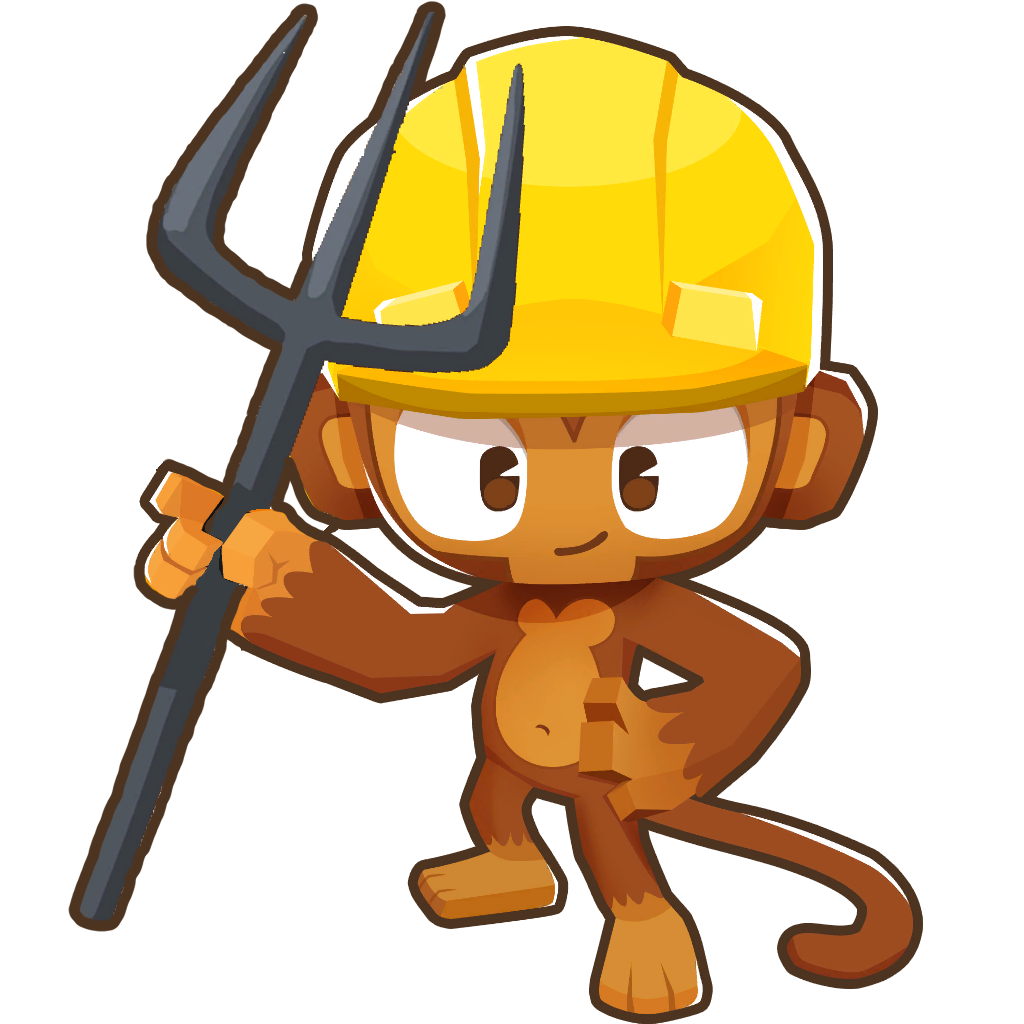
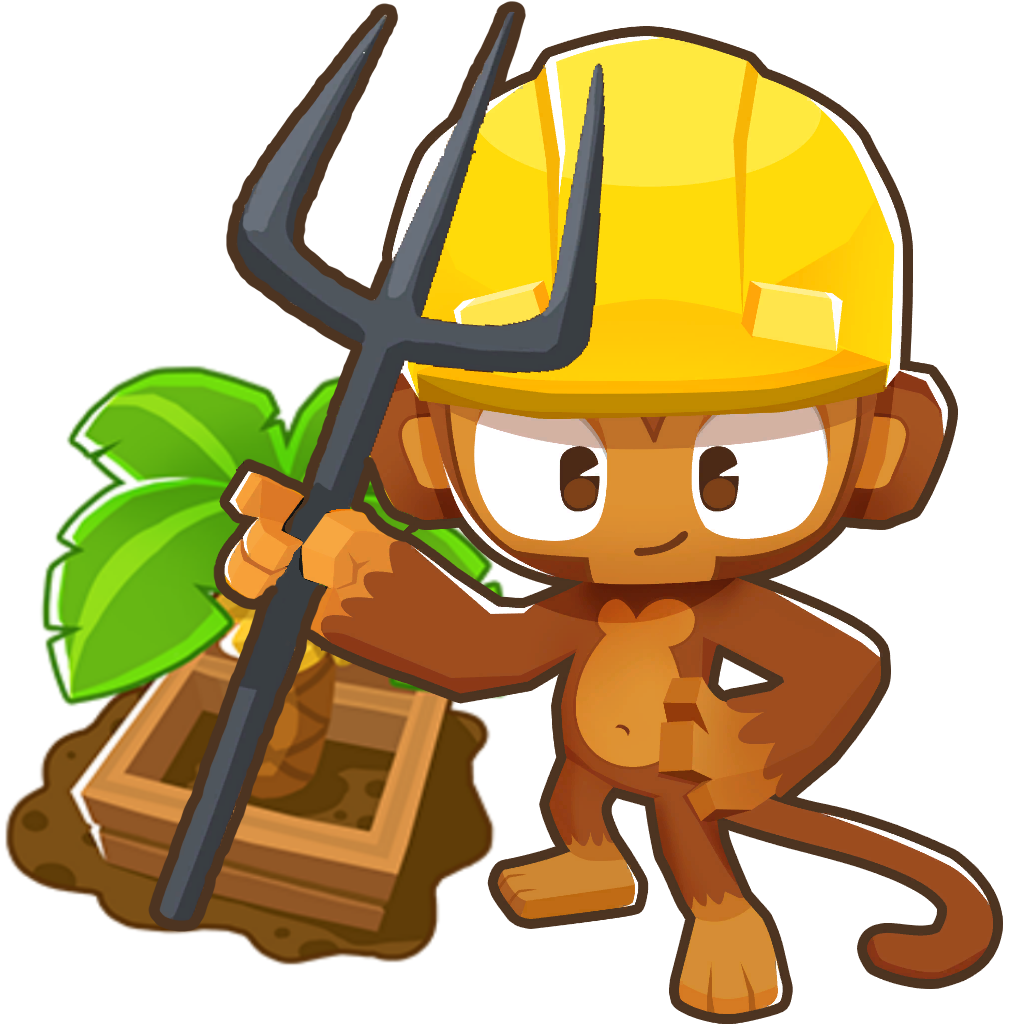
1.0.3 Fixed for v32.0

diff --git a/Levels.cs b/Levels.cs
@@ -8,6 +8,8 @@ using Assets.Scripts.Models.Towers.Filters;
 using Assets.Scripts.Models.Towers.Projectiles.Behaviors;
 using Assets.Scripts.Models.Towers.TowerFilters;
 using Assets.Scripts.Unity;
+using Assets.Scripts.Utils;
+using BTD_Mod_Helper.Api.Enums;
 using BTD_Mod_Helper.Api.Towers;
 using IndustrialFarmer.Patches;
 using UnhollowerBaseLib;
@@ -69,7 +71,7 @@ public class Levels
             attack.RemoveBehavior<TargetLastModel>();
 
             var effectModel = attack.GetDescendant<CreateEffectOnExhaustFractionModel>().effectModel;
-            effectModel.assetId = GetDisplayGUID<PesticideSplatter>();
+            effectModel.assetId = CreatePrefabReference<PesticideSplatter>();
 
             var projectile = attack.GetDescendant<CreateProjectileOnExhaustFractionModel>().projectile;
             projectile.RemoveBehavior<DamageModel>();
@@ -113,7 +115,7 @@ public class Levels
 
         public override void ApplyUpgrade(TowerModel towerModel)
         {
-            towerModel.AddBehavior(new FreezeNearbyWaterModel("FreezeNearbyWaterModel_", towerModel.range, 1, ""));
+            towerModel.AddBehavior(new FreezeNearbyWaterModel("FreezeNearbyWaterModel_", towerModel.range, 1, new PrefabReference()));
         }
     }
 
@@ -195,7 +197,7 @@ public class Levels
 
             var projectile = shrink.GetDescendant<CreateProjectileOnExhaustFractionModel>().projectile;
             projectile.radius = 50;
-            projectile.GetBehavior<MorphBloonModel>().bloonId = "Green";
+            projectile.GetBehavior<MorphBloonModel>().bloonId = BloonType.Green;
             projectile.GetDescendants<FilterInvisibleModel>().ForEach(model => model.isActive = false);
 
             var abilityModel = towerModel.GetAbility().Duplicate();

diff --git a/Displays/IndustrialFarmerDisplay.cs b/Displays/IndustrialFarmerDisplay.cs
@@ -1,4 +1,5 @@
-using Assets.Scripts.Models.Towers;
+using System;
+using Assets.Scripts.Models.Towers;
 using Assets.Scripts.Unity.Display;
 using BTD_Mod_Helper.Api.Display;
 using UnhollowerBaseLib;
@@ -9,11 +10,14 @@ namespace IndustrialFarmer.Displays;
 
 public abstract class IndustrialFarmerDisplay : ModTowerDisplay<IndustrialFarmer>
 {
-    public override bool ModifiesUnityObject => true;
-
     public override float Scale => 1.05f;
 
     public override void ModifyDisplayNode(UnityDisplayNode node)
+    {
+        node.RemoveBone("MonkeyRig:Propjectile_R");
+    }
+
+    public override void ModifyDisplayNodeAsync(UnityDisplayNode node, Action onComplete)
     {
         UseNode(GetDisplay(TowerType.BananaFarmer), bananaFarmer =>
         {
@@ -34,9 +38,10 @@ public abstract class IndustrialFarmerDisplay : ModTowerDisplay<IndustrialFarmer
             PostAddPitchfork(node, pitchfork);
 
             node.RecalculateGenericRenderers();
+            
+            onComplete();
         });
 
-        node.RemoveBone("MonkeyRig:Propjectile_R");
     }
 
 

diff --git a/Displays/IndustrialFarmerDisplay5.cs b/Displays/IndustrialFarmerDisplay5.cs
@@ -1,12 +1,15 @@
-using Assets.Scripts.Unity.Display;
+using Assets.Scripts.Models.Towers;
+using Assets.Scripts.Unity.Display;
 using UnhollowerBaseLib;
 using UnityEngine;
 using Object = UnityEngine.Object;
 
 namespace IndustrialFarmer.Displays;
 
-public class IndustrialFarmerDisplay5 : IndustrialFarmerDisplay4
+public class IndustrialFarmerDisplay5 : IndustrialFarmerDisplay
 {
+    public override string BaseDisplay => GetDisplay(TowerType.EngineerMonkey, 3);
+    
     public override bool UseForTower(int[] tiers)
     {
         return tiers[0] == 20;
@@ -18,6 +21,7 @@ public class IndustrialFarmerDisplay5 : IndustrialFarmerDisplay4
         SkinnedMeshRenderer pitchforkRenderer;
         string[] boneNames;
         newPitchFork = Object.Instantiate(pitchfork, node.transform.GetChild(0));
+        newPitchFork.name += "2";
         pitchforkRenderer = newPitchFork.GetComponent<SkinnedMeshRenderer>();
         pitchforkRenderer.rootBone = node.GetBone("MonkeyRig:MonkeyJnt_Spine02");
         boneNames = new[]

diff --git a/PesticideSplatter.cs b/PesticideSplatter.cs
@@ -2,13 +2,14 @@
 using Assets.Scripts.Models.Towers.Projectiles.Behaviors;
 using Assets.Scripts.Unity;
 using Assets.Scripts.Unity.Display;
+using Assets.Scripts.Utils;
 using BTD_Mod_Helper.Api.Display;
 
 namespace IndustrialFarmer;
 
 public class PesticideSplatter : ModDisplay
 {
-    public override string BaseDisplay => Game.instance.model.GetTower(TowerType.GlueGunner, 3, 2)
+    public override PrefabReference BaseDisplayReference => Game.instance.model.GetTower(TowerType.GlueGunner, 3, 2)
         .GetDescendant<CreateEffectOnContactModel>().effectModel.assetId;
 
     public override float Scale => 3f;

diff --git a/Patches/CashCollection.cs b/Patches/CashCollection.cs
@@ -61,7 +61,7 @@ public class CashCollection
         internal static bool Prefix(Cash __instance)
         {
             var cashModel = __instance.cashModel.Duplicate();
-            if (CrateGUIDs.Contains(__instance.projectile.display.displayModel.display))
+            if (CrateGUIDs.Contains(__instance.projectile.display.displayModel.display.guidRef))
             {
                 cashModel.maximum *= bananaCrateMultiplier;
                 cashModel.minimum *= bananaCrateMultiplier;

diff --git a/IndustrialFarmer.cs b/IndustrialFarmer.cs
@@ -28,9 +28,6 @@ public class IndustrialFarmer : ModHero
     public override int MaxLevel => 20;
     public override float XpRatio => 1.0f;
 
-    public override int Abilities => 2;
-
-
     /// <summary>
     ///     <seealso cref="TowerCreation.InputManager_CreateTowerAt.Postfix" />
     /// </summary>

diff --git a/ModHelperData.cs b/ModHelperData.cs
@@ -2,7 +2,7 @@
 
 public static class ModHelperData
 {
-    public const string Version = "1.0.2";
+    public const string Version = "1.0.3";
     public const string Name = "Industrial Farmer";
 
     public const string Description =

diff --git a/LATEST.md b/LATEST.md
@@ -1,3 +1,2 @@
-NOTE: This release requires Mod Helper v3.0, see the main page for stable downloads.
-
-- Updated for Mod Helper 3.0
+- Fixed for v32.0
+- New portraits
